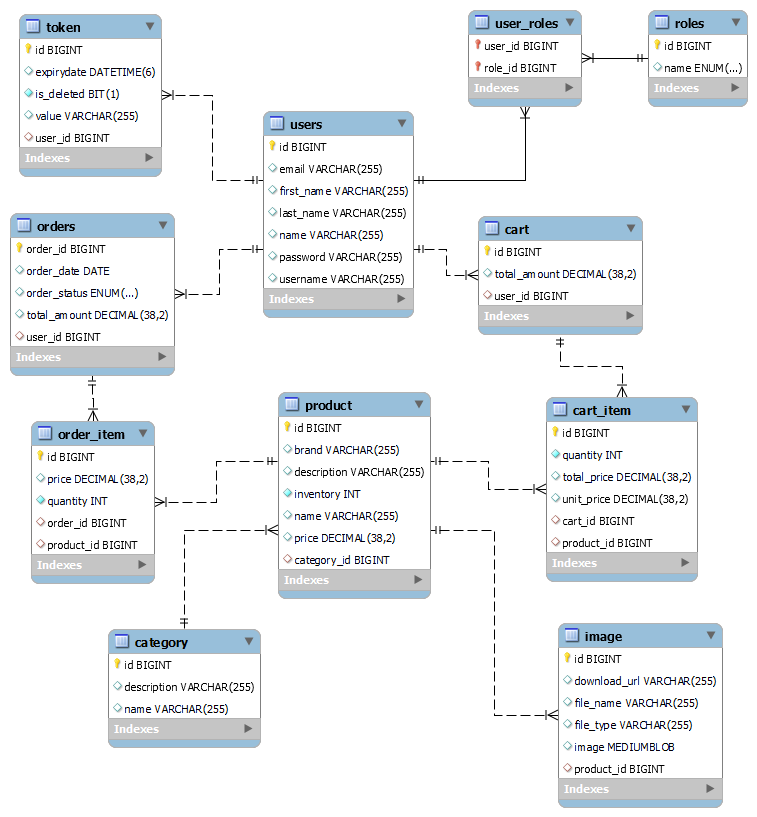
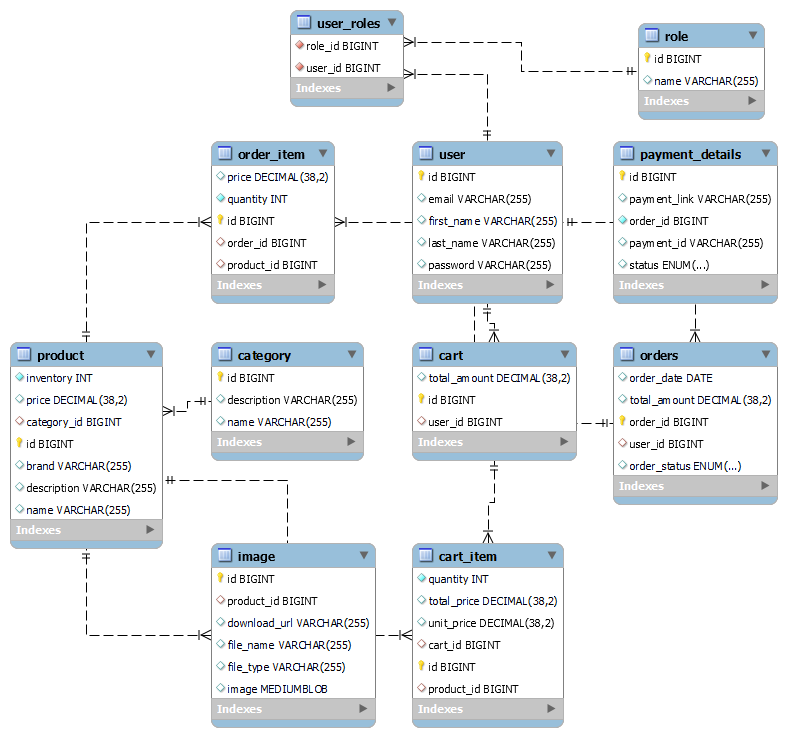
fixed testing issues

diff --git a/src/main/java/com/onlineshop/shop/user/services/UserService.java b/src/main/java/com/onlineshop/shop/user/services/UserService.java
@@ -9,6 +9,7 @@ import com.onlineshop.shop.user.exceptions.AlreadyExistException;
 import com.onlineshop.shop.user.models.User;
 import com.onlineshop.shop.user.repositories.UserRepository;
 import lombok.RequiredArgsConstructor;
+import org.hibernate.Hibernate;
 import org.modelmapper.ModelMapper;
 import org.springframework.security.core.Authentication;
 import org.springframework.security.core.context.SecurityContextHolder;
@@ -68,6 +69,8 @@ public class UserService implements IUserService {
 
     @Override
     public UserDto convertUserToDto(User user) {
+        Hibernate.initialize(user.getOrders()); // Ensure orders are loaded
+        Hibernate.initialize(user.getRoles());  // Ensure roles are loaded
         return modelMapper.map(user, UserDto.class);
     }
 
@@ -75,7 +78,7 @@ public class UserService implements IUserService {
     public User getAuthenticatedUser() {
         Authentication authentication  = SecurityContextHolder.getContext().getAuthentication();
         String email = authentication.getName();
-        return userRepository.findByEmail(email);
+        return userRepository.findByEmail(email).orElseThrow(() -> new ResourceNotFoundException("User not found"));
     }
 
     @Override
@@ -85,7 +88,7 @@ public class UserService implements IUserService {
         }
 
         User user = userRepository.findByEmail(resetPasswordRequestDto.getEmail())
-                .orElseThrow(() -> new IllegalArgumentException("User not found"));
+                .orElseThrow(() -> new ResourceNotFoundException("User not found"));
 
         user.setPassword(passwordEncoder.encode(resetPasswordRequestDto.getNewPassword()));
         userRepository.save(user);

diff --git a/src/main/java/com/onlineshop/shop/auth/jwt/AuthTokenFilter.java b/src/main/java/com/onlineshop/shop/auth/jwt/AuthTokenFilter.java
@@ -49,11 +49,29 @@ public class AuthTokenFilter extends OncePerRequestFilter {
     }
 
     private String parseJwt(HttpServletRequest request) {
-        String headerAuth = request.getHeader("Authorization");
-        if (StringUtils.hasText(headerAuth) && headerAuth.startsWith("Bearer ")) {
-            System.out.println("token " + headerAuth.split(" ")[2]);
-            return headerAuth.split(" ")[2].trim();
+        try {
+            String headerAuth = request.getHeader("Authorization");
+
+            // Check if the Authorization header is present and starts with "Bearer "
+            if (StringUtils.hasText(headerAuth)) {
+                String[] parts = headerAuth.split(" ");
+
+                // Check if there are multiple Bearer tokens
+                if (parts.length > 2 || (parts.length == 2 && !parts[0].equals("Bearer"))) {
+                    throw new IllegalArgumentException("Invalid Authorization header: multiple Bearer tokens detected.");
+                }
+
+                // Ensure the first part is "Bearer"
+                if (parts[0].equals("Bearer")) {
+                    return parts[1].trim(); // Return the token, trimming any whitespace
+                }
+            }
+
+            return null; // Return null if no valid token found
+        } catch (IllegalArgumentException e) {
+            throw new RuntimeException(e.getMessage());
+        } catch (JwtException e) {
+            throw new RuntimeException("Invalid or expired token");
         }
-        return null;
     }
 }

diff --git a/src/main/java/com/onlineshop/shop/user/controllers/UserController.java b/src/main/java/com/onlineshop/shop/user/controllers/UserController.java
@@ -10,6 +10,8 @@ import com.onlineshop.shop.user.exceptions.AlreadyExistException;
 import com.onlineshop.shop.user.models.User;
 import com.onlineshop.shop.user.services.IUserService;
 import lombok.RequiredArgsConstructor;
+import org.slf4j.Logger;
+import org.slf4j.LoggerFactory;
 import org.springframework.http.ResponseEntity;
 import org.springframework.web.bind.annotation.*;
 
@@ -21,14 +23,17 @@ import static org.springframework.http.HttpStatus.NOT_FOUND;
 @RequestMapping("${api_prefix}/users")
 public class UserController {
     private final IUserService userService;
+    private static final Logger logger = LoggerFactory.getLogger(UserController.class);
 
     @GetMapping("/{userId}/user")
     public ResponseEntity<ApiResponse> getUserById(@PathVariable Long userId) {
         try {
             User user = userService.getUserById(userId);
             UserDto userDto = userService.convertUserToDto(user);
+            logger.info("User fetched successfully for ID: {}", userId);
             return ResponseEntity.ok(new ApiResponse("User fetched successfully", userDto));
         } catch (ResourceNotFoundException e) {
+            logger.error("User not found: {}", e.getMessage());
             return ResponseEntity.status(NOT_FOUND).body(new ApiResponse(e.getMessage(), null));
         }
     }

diff --git a/src/main/java/com/onlineshop/shop/cartAndCheckout/models/Cart.java b/src/main/java/com/onlineshop/shop/cartAndCheckout/models/Cart.java
@@ -1,5 +1,7 @@
 package com.onlineshop.shop.cartAndCheckout.models;
 
+import com.fasterxml.jackson.annotation.JsonBackReference;
+import com.fasterxml.jackson.annotation.JsonIgnore;
 import com.onlineshop.shop.common.models.BaseModel;
 import com.onlineshop.shop.user.models.User;
 import jakarta.persistence.*;
@@ -8,6 +10,7 @@ import lombok.NoArgsConstructor;
 import lombok.Setter;
 
 import java.math.BigDecimal;
+import java.util.HashSet;
 import java.util.Set;
 
 @Setter
@@ -22,9 +25,10 @@ public class Cart extends BaseModel {
     // - `cascade = CascadeType.ALL`: Cascades all operations to associated entities.
     // - `orphanRemoval = true`: Removes associated entities if no longer referenced.
     @OneToMany(mappedBy = "cart", cascade = CascadeType.ALL, orphanRemoval = true)
-    private Set<CartItem> cartItems;
+    private Set<CartItem> cartItems = new HashSet<>();
 
     // - `mappedBy = "cart"`: The "cart" field in the associated entity owns the relationship.
+    @JsonBackReference // Used to break the infinite recursion problem
     @OneToOne
     @JoinColumn(name = "user_id")
     private User user;

diff --git a/src/main/java/com/onlineshop/shop/cartAndCheckout/service/CheckoutService.java b/src/main/java/com/onlineshop/shop/cartAndCheckout/service/CheckoutService.java
@@ -15,6 +15,8 @@ import org.springframework.stereotype.Service;
 import java.util.List;
 import java.util.stream.Collectors;
 
+import static com.onlineshop.shop.cartAndCheckout.models.PaymentStatus.SUCCESS;
+
 @RequiredArgsConstructor
 @Service
 public class CheckoutService implements ICheckoutService {
@@ -88,7 +90,7 @@ public class CheckoutService implements ICheckoutService {
 
         // Return response
         return StripeResponseDto.builder()
-                .status("success")
+                .status(SUCCESS)
                 .message("Checkout session created successfully.")
                 .sessionId(session.getId())
                 .sessionUrl(session.getUrl())

diff --git a/src/main/java/com/onlineshop/shop/user/models/User.java b/src/main/java/com/onlineshop/shop/user/models/User.java
@@ -4,6 +4,7 @@ import java.util.Collection;
 import java.util.HashSet;
 import java.util.List;
 
+import com.fasterxml.jackson.annotation.JsonManagedReference;
 import com.onlineshop.shop.cartAndCheckout.models.Cart;
 import com.onlineshop.shop.common.models.BaseModel;
 import com.onlineshop.shop.order.models.Order;
@@ -26,6 +27,7 @@ public class User extends BaseModel {
     private String email;
     private String password;
 
+    @JsonManagedReference // Used to break the infinite recursion problem
     @OneToOne(mappedBy = "user", cascade = CascadeType.ALL, orphanRemoval = true)
     private Cart cart;
 

diff --git a/src/main/java/com/onlineshop/shop/auth/jwt/JwtAuthEntryPoint.java b/src/main/java/com/onlineshop/shop/auth/jwt/JwtAuthEntryPoint.java
@@ -25,7 +25,7 @@ public class JwtAuthEntryPoint implements AuthenticationEntryPoint {
         final Map<String, Object> body = new HashMap<>();
         // body.put("status", HttpServletResponse.SC_UNAUTHORIZED);
         body.put("error", "Unauthorized");
-        body.put("message", "Yo may login to access this resource!");
+        body.put("message", "You may login to access this resource!");
         // body.put("path", request.getServletPath());
 
         final ObjectMapper mapper = new ObjectMapper();

diff --git a/src/main/java/com/onlineshop/shop/cartAndCheckout/dtos/StripeResponseDto.java b/src/main/java/com/onlineshop/shop/cartAndCheckout/dtos/StripeResponseDto.java
@@ -1,5 +1,6 @@
 package com.onlineshop.shop.cartAndCheckout.dtos;
 
+import com.onlineshop.shop.cartAndCheckout.models.PaymentStatus;
 import lombok.AllArgsConstructor;
 import lombok.Builder;
 import lombok.Data;
@@ -12,7 +13,7 @@ import lombok.NoArgsConstructor;
 public class StripeResponseDto {
     private String sessionId;
     private String sessionUrl;
-    private String status;
+    private PaymentStatus status;
     private String message;
 
     public StripeResponseDto(String sessionId) {

diff --git a/src/main/java/com/onlineshop/shop/cartAndCheckout/service/CartItemService.java b/src/main/java/com/onlineshop/shop/cartAndCheckout/service/CartItemService.java
@@ -28,7 +28,7 @@ public class CartItemService implements ICartItemService {
         // 3. Check if the product already exists in the cart
         // 4. If it exists, update the quantity
         // 5. If it doesn't exist, add the product to the cart
-
+        System.out.println("Adding item to cart " + productId + quantity);
         Cart cart = cartService.getCart(cartId);
         Product product = productService.getProductById(productId);
         CartItem cartItem = cart.getCartItems()

diff --git a/src/main/java/com/onlineshop/shop/auth/user/ShopUserDetailsService.java b/src/main/java/com/onlineshop/shop/auth/user/ShopUserDetailsService.java
@@ -17,7 +17,7 @@ public class ShopUserDetailsService implements UserDetailsService {
 
     @Override
     public UserDetails loadUserByUsername(String email) throws UsernameNotFoundException {
-        User user = Optional.ofNullable(userRepository.findByEmail(email))
+        User user = userRepository.findByEmail(email)
                 .orElseThrow(() -> new UsernameNotFoundException("User not found with email: " + email));
         return ShopUserDetails.buildUserDetails(user);
     }

diff --git a/src/main/java/com/onlineshop/shop/order/models/Order.java b/src/main/java/com/onlineshop/shop/order/models/Order.java
@@ -17,7 +17,10 @@ import java.util.Set;
 @NoArgsConstructor
 @Entity
 @Table(name = "orders")
-public class Order extends BaseModel {
+public class Order{
+    @Id
+    @GeneratedValue(strategy = GenerationType.IDENTITY)
+    private Long orderId;
 
     private LocalDate orderDate;
     private BigDecimal totalAmount;

diff --git a/src/main/java/com/onlineshop/shop/cartAndCheckout/controllers/CartController.java b/src/main/java/com/onlineshop/shop/cartAndCheckout/controllers/CartController.java
@@ -12,7 +12,7 @@ import java.math.BigDecimal;
 
 @RequiredArgsConstructor
 @RestController
-@RequestMapping("${api_prefix}/cart")
+@RequestMapping("${api_prefix}/carts")
 public class CartController {
     private final ICartService cartService;
 
